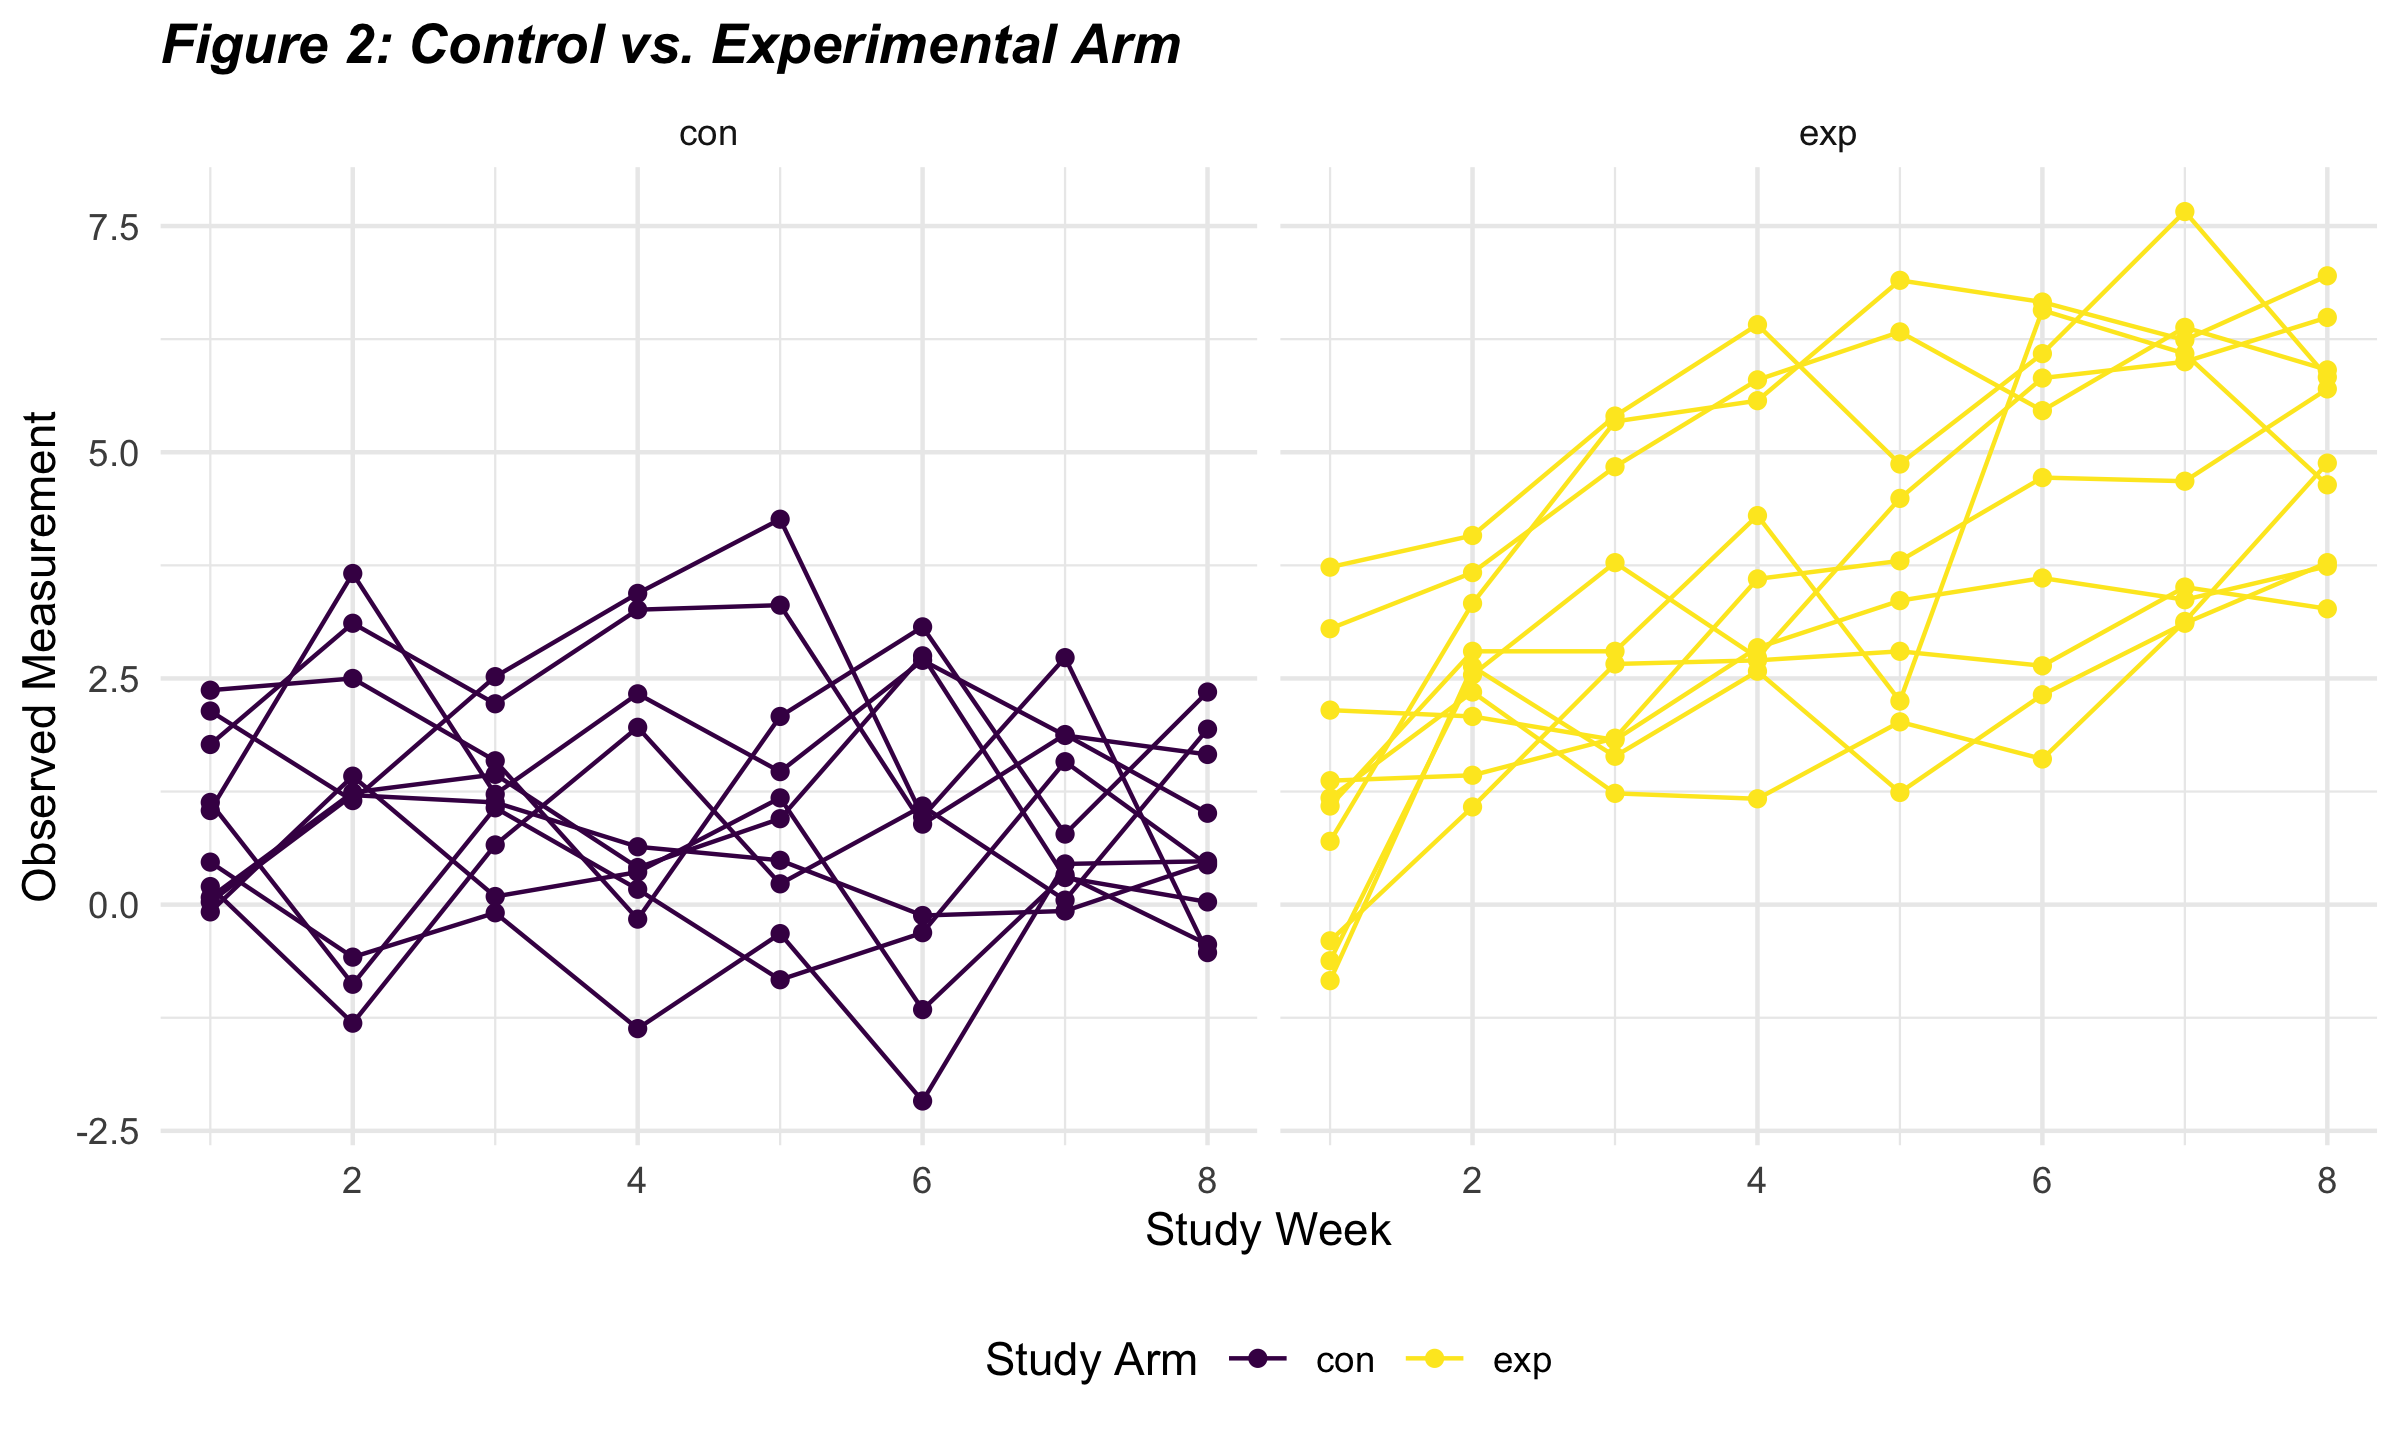
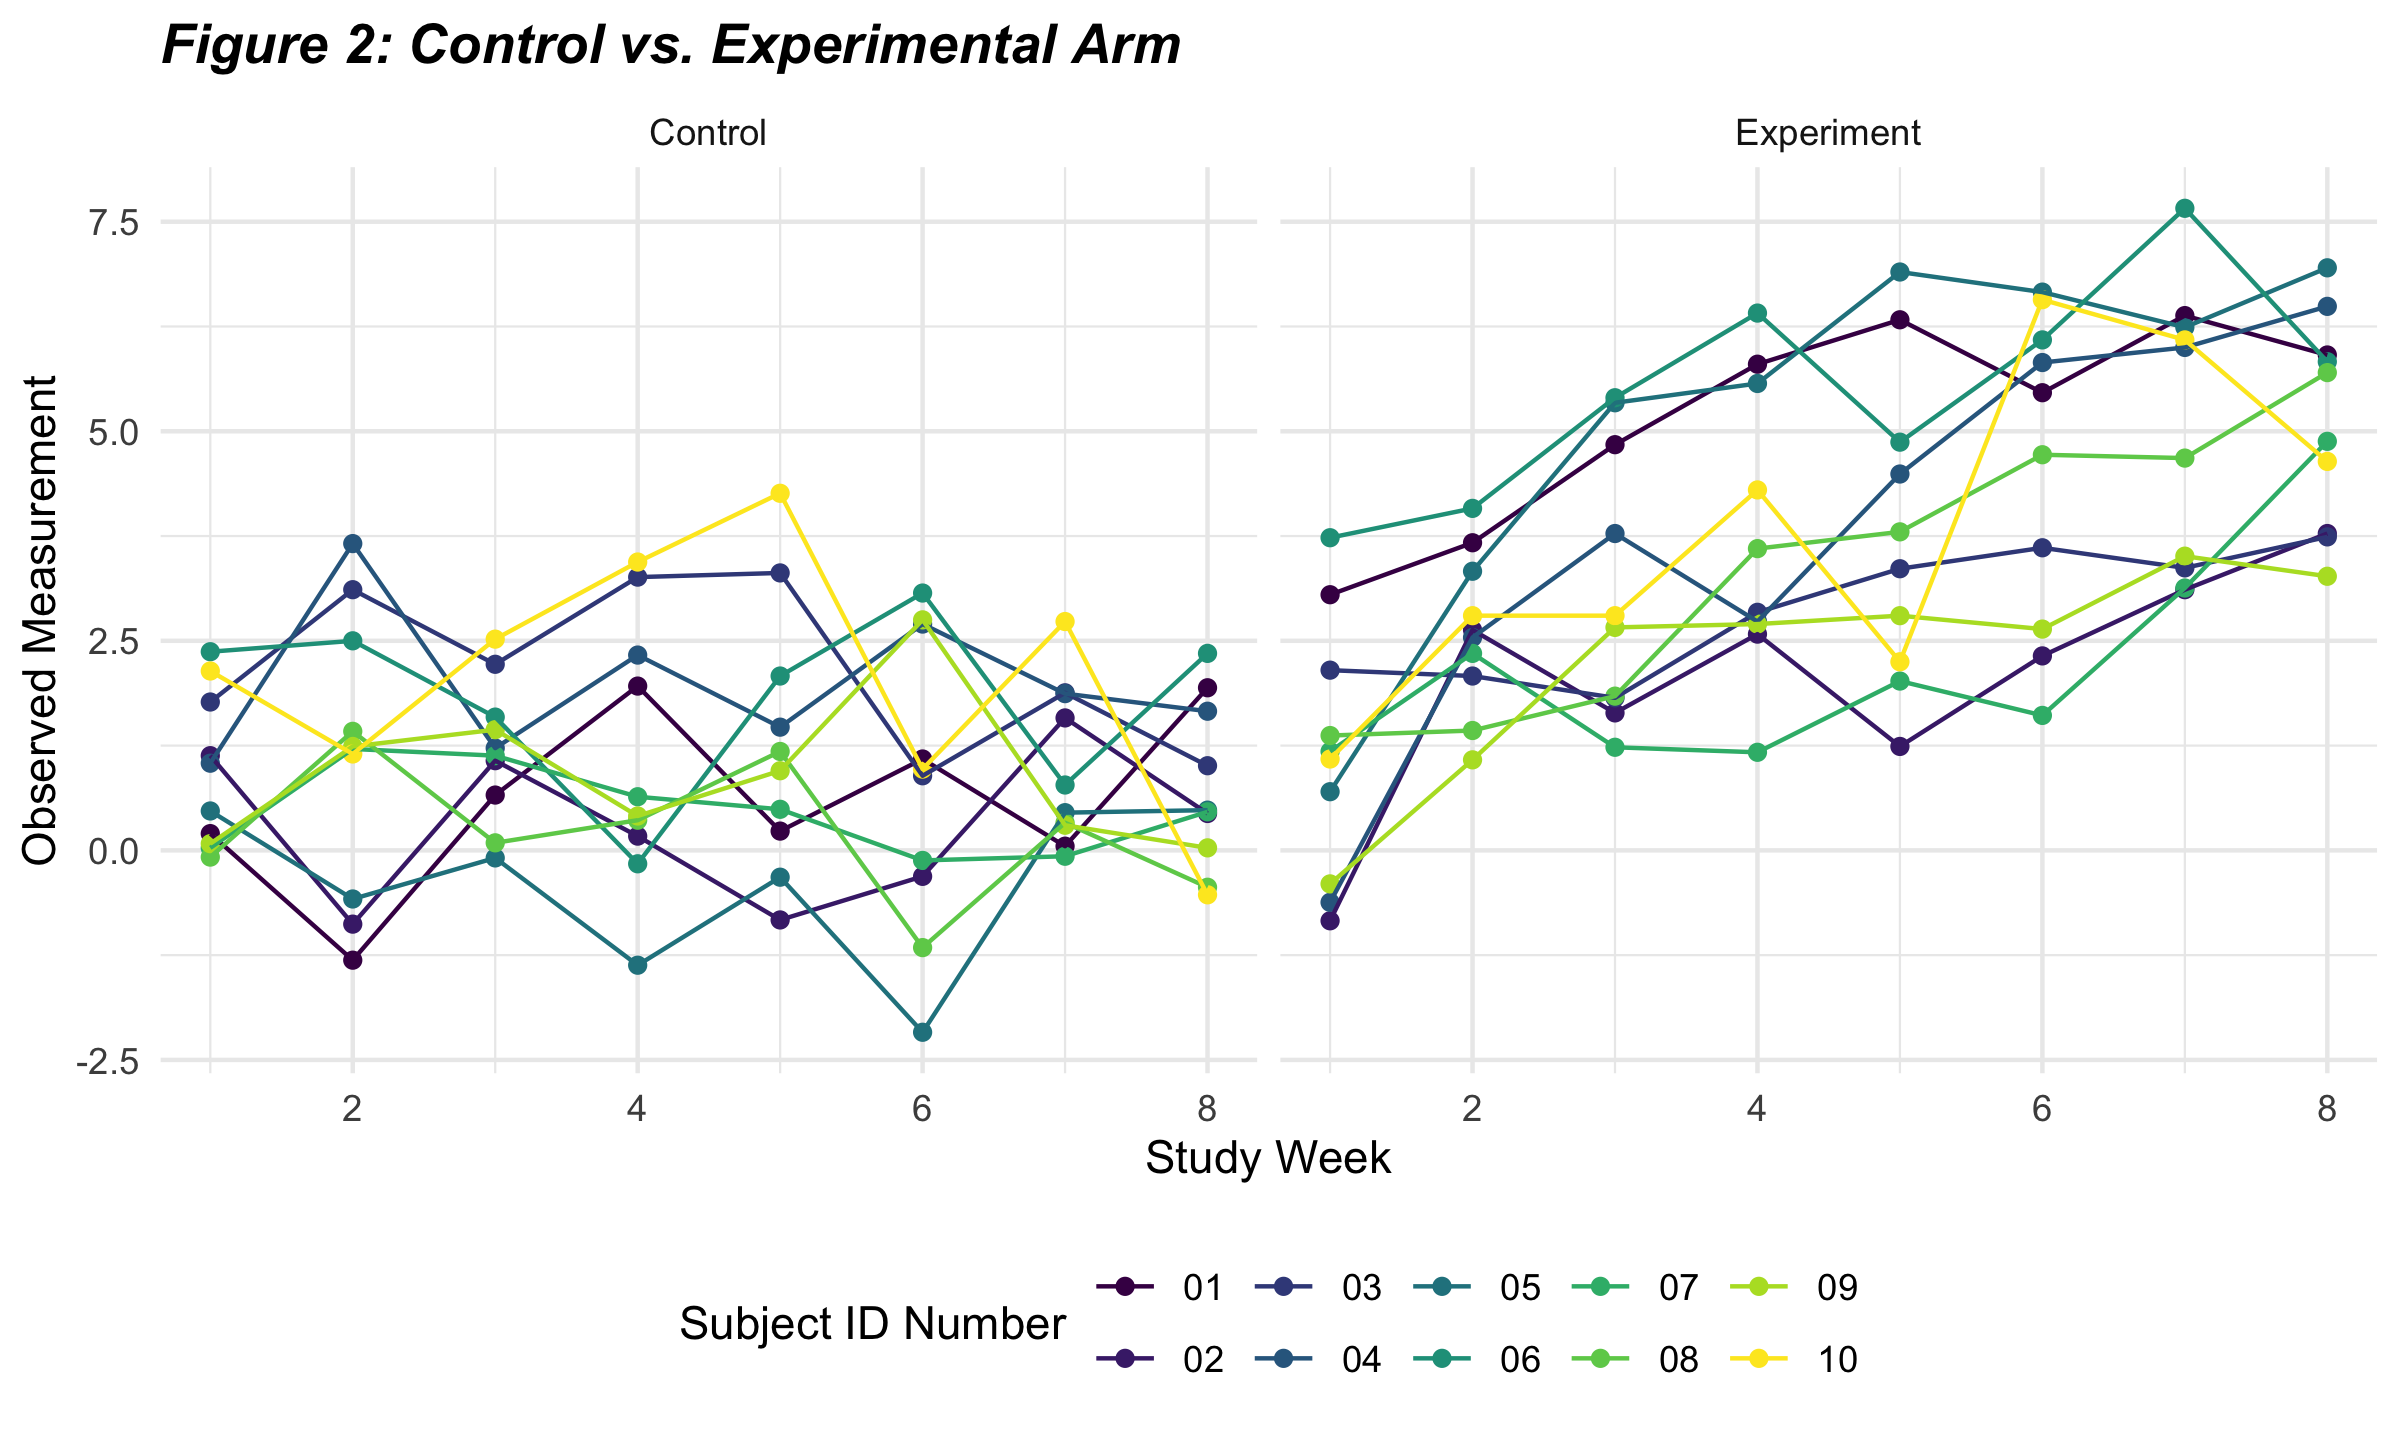
problem 3 and other edits

diff --git a/p8105_hw5_jys2137.md b/p8105_hw5_jys2137.md
@@ -24,13 +24,13 @@ assignment reinforcing ideas in the **Iteration** topic for P8105.
 -   **2.1.** Importing the data
 -   **2.2.** Cleaning the data
 -   **2.3.** Spaghetti plot of observations over time
+-   **2.4.** A comment on differences between groups
 
 **Problem 3**
 
--   **3.1.**
--   **3.2.**
--   **3.3.**
--   **3.4.**
+-   **3.1.** Loading in the `iris` dataset
+-   **3.2.** Writing a function
+-   **3.3.** Final checks
 
 ## Problem 1
 
@@ -265,7 +265,7 @@ control arm and an experimental arm. Data for each participant is
 included in a separate file, and file names include the `subject ID` and
 `arm`.
 
-#### 2.1 Importing the data
+#### 2.1. Importing the data
 
 First, we import the data from each separate file of the study through
 the following steps:
@@ -291,12 +291,13 @@ files_df =
 Now, we tidy the result of the previous data import through the
 following steps:
 
--   Manipulate the file name to include control arm and subject ID
+-   Manipulate the file name to include `study arm` and subject ID
+    (`subj_id`)
 -   Use string replacements for the file names
 -   Ensure weekly observations are tidy
--   Changing the dataframe from wide to long
--   De-selecting variables that are not meaningful for our understanding
-    of the data
+-   Change the dataframe from wide to long
+-   De-select variables that are not meaningful for our understanding of
+    the data
 
 ``` r
 tidy_df = 
@@ -311,10 +312,12 @@ tidy_df =
   pivot_longer(
     week_1:week_8,
     names_to = "week",
-    values_to = "outcome",
+    values_to = "observations",
     names_prefix = "week_") %>% 
-  mutate(week = as.numeric(week)) %>% 
-  select(-subj_num, subj = files, week, outcome)
+  mutate(week = as.numeric(week),
+         study_arm = case_when(str_detect(files, "exp") ~ "Experiment",
+                               str_detect(files, "con") ~ "Control")) %>% 
+  select(study_arm, subj_num, subj = files, week, observations)
 ```
 
 #### 2.3. Spaghetti plot of observations over time
@@ -325,22 +328,112 @@ the **experimental group** is shown on the *right*.
 
 ``` r
 tidy_df %>% 
-  ggplot(aes(x = week, y = outcome, group = subj, color = study_arm)) + 
+  ggplot(aes(x = week, y = observations, group = subj, color = subj_num)) + 
   geom_point() + 
   geom_path() + 
   theme(plot.title = element_text(face = "bold.italic" )) + 
   labs(x = "Study Week",
        y = "Observed Measurement", 
        title = "Figure 2: Control vs. Experimental Arm", 
-       color = "Study Arm") +
+       color = "Subject ID Number") +
   facet_grid(~study_arm)
 ```
 
 <img src="p8105_hw5_jys2137_files/figure-gfm/unnamed-chunk-8-1.png" width="90%" />
 
-###### A comment on differences between groups:
+#### 2.4. A comment on differences between groups:
 
 Figure 2 illustrates a noticeable difference between groups. Subjects in
 the control group seem to stay rather consistent in their observed
 measurement over time, while subjects in the experimental group seem to
 have increasing observed measurements over time.
+
+## Problem 3
+
+The purpose of this problem is to **fill in missing values** from the
+`iris` dataset.
+
+#### 3.1. Loading in the iris dataset
+
+The code chunk below **loads the iris dataset** from the tidyverse
+package and introduces some missing values in each column.
+
+``` r
+library(tidyverse)
+set.seed(10)
+
+iris_with_missing = iris %>% 
+  map_df(~replace(.x, sample(1:150, 20), NA)) %>%
+  mutate(Species = as.character(Species))
+```
+
+#### 3.2. Writing a function
+
+Now, we write a function that takes a **vector as an argument** and
+**replaces missing** values such that two cases are addressed:
+
+-   For *numeric* variables, missing values are filled in with the mean
+    of non-missing values
+-   For *character* variables, missing values are filled in with with
+    “virginica”
+
+The function subsequently returns the resulting vector.
+
+``` r
+missing_func = function(x) {
+  
+    if (is.character(x)) {
+        x[is.na(x)] = "virginica"
+    } else if (is.numeric(x)) {
+        x[is.na(x)] = mean(x, na.rm = TRUE)
+    } else stop("Input should be a numeric or character value")
+  return(x)
+}
+```
+
+The chunk below applies the function created above to the columns of
+`iris_with_missing` using a `map` statement. A `for loop` is also used
+to iterate across each column.
+
+``` r
+ for (i in 1:5) {
+    iris_with_missing[i] = map(iris_with_missing[i], ~missing_func(.x))
+  }
+```
+
+#### 3.3. Final checks
+
+To make sure missing has been replaced correctly, we are doing a check
+on the data frame to see if there are any rows with NA values in the
+dataframe.
+
+``` r
+na_check =
+  iris_with_missing[rowSums(is.na(iris_with_missing)) > 0,]
+
+na_check
+```
+
+    ## # A tibble: 0 × 5
+    ## # … with 5 variables: Sepal.Length <dbl>, Sepal.Width <dbl>,
+    ## #   Petal.Length <dbl>, Petal.Width <dbl>, Species <chr>
+
+The dataframe looks like it does not include any more NA values.
+Finally, we can do a test of the new dataset.
+
+``` r
+iris_with_missing %>%
+  head()
+```
+
+    ## # A tibble: 6 × 5
+    ##   Sepal.Length Sepal.Width Petal.Length Petal.Width Species
+    ##          <dbl>       <dbl>        <dbl>       <dbl> <chr>  
+    ## 1          5.1         3.5          1.4        0.2  setosa 
+    ## 2          4.9         3            1.4        0.2  setosa 
+    ## 3          4.7         3.2          1.3        0.2  setosa 
+    ## 4          4.6         3.1          1.5        1.19 setosa 
+    ## 5          5           3.6          1.4        0.2  setosa 
+    ## 6          5.4         3.9          1.7        0.4  setosa
+
+Great, no NA values to be found!
